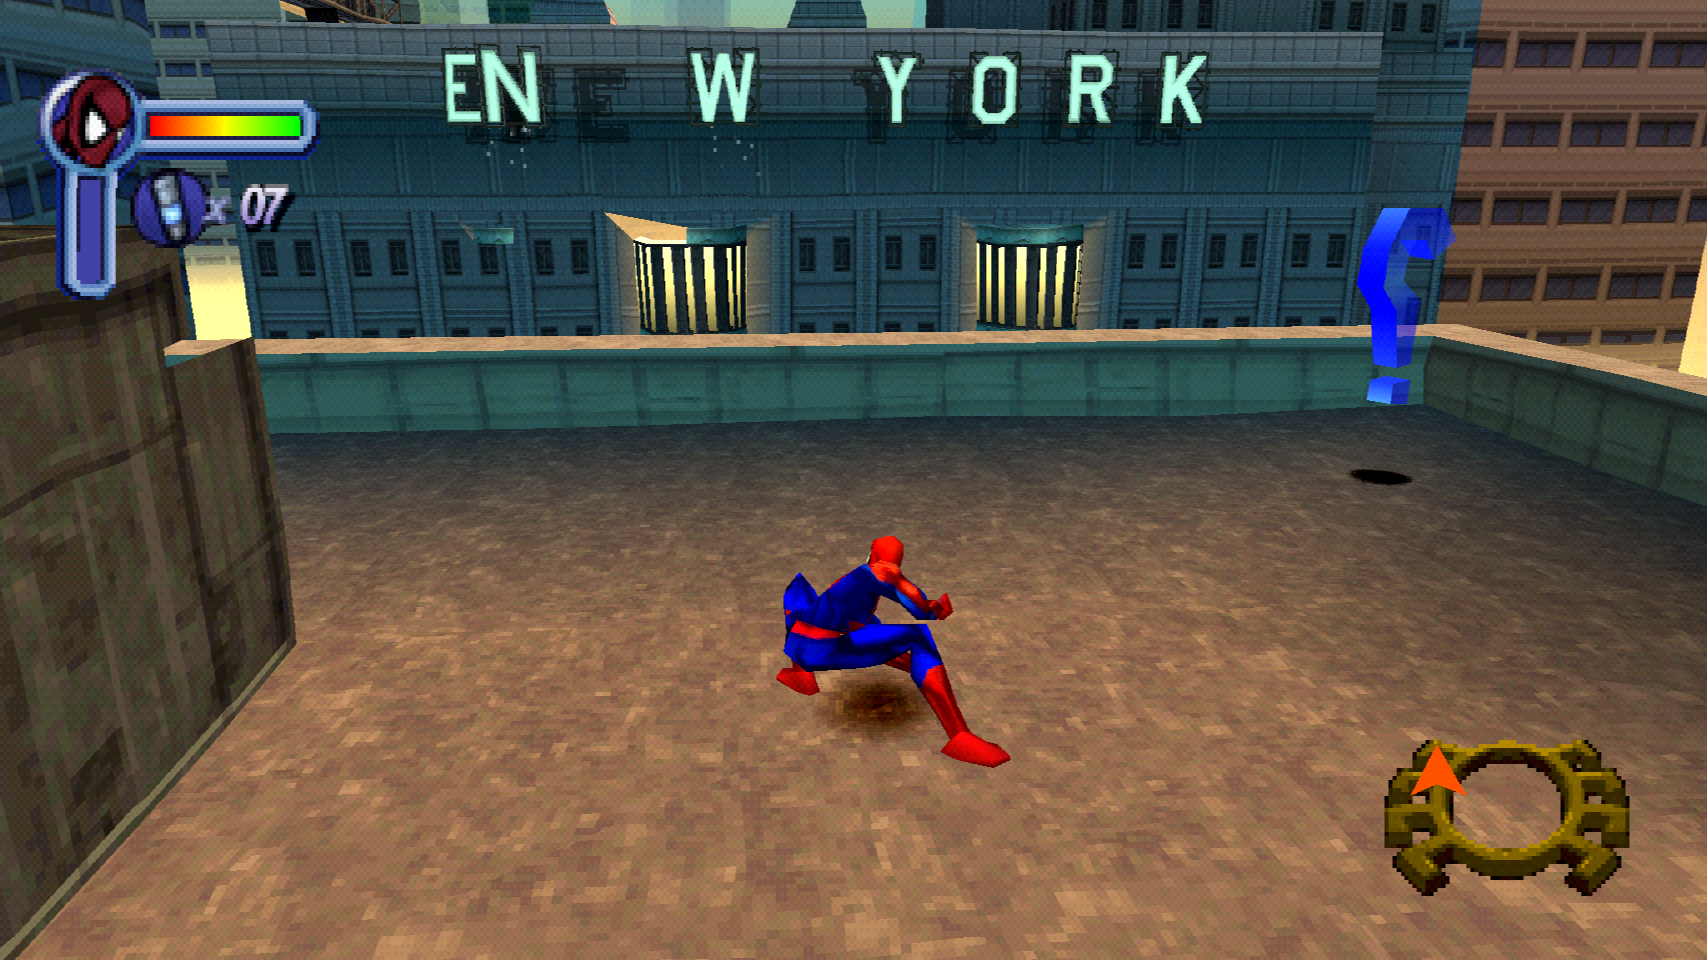
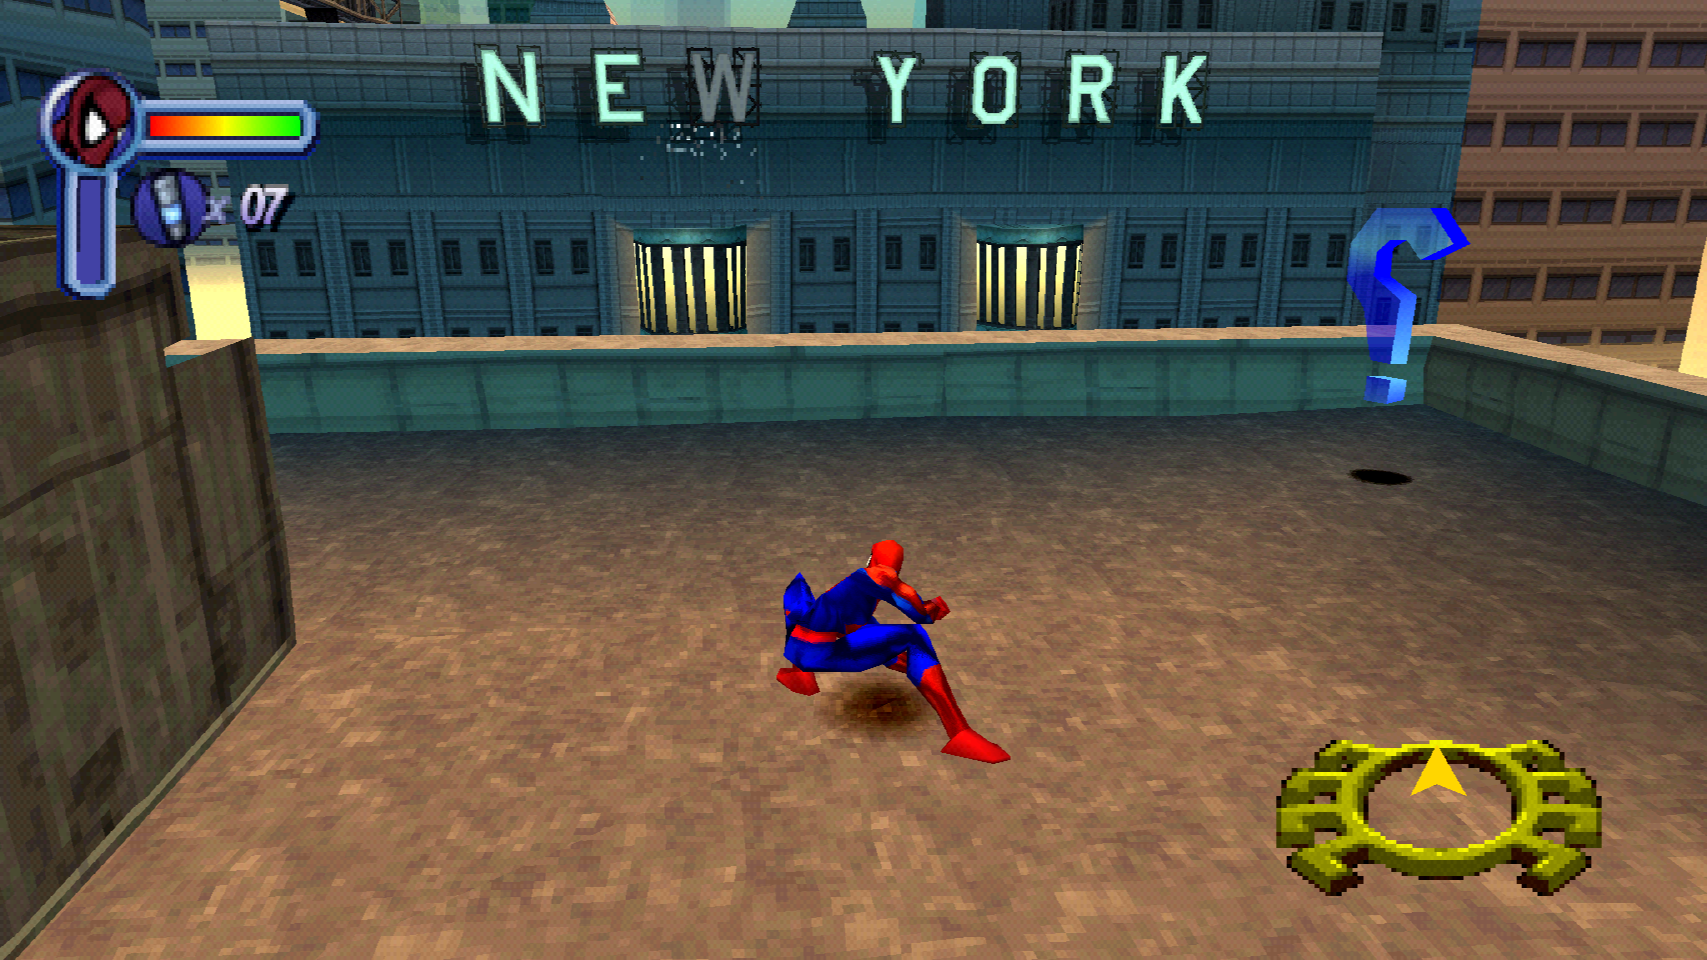
Widescreen HUD: anchor the health display, leave the compass whole
The compass ring is no longer anchored. Its needle rotates, so it never
forms an axis-aligned rectangle and cannot be identified the way the panels
are; moving the ring without it split the compass in two with the needle
stranded against the ring's edge. A whole compass sitting slightly inboard
is better than a broken one at the frame edge.

Only the top-left panels are anchored now, and they must hug the corner to
qualify. A corner region wide enough merely to contain them also contained
the building sign, whose letters are axis-aligned quads exactly like a HUD
panel, and squeezing those pulled letters out of the word.

Verified: health bar keeps its 150px inset from the left edge in both 4:3
and 16:9 at the same size; the sign, Spider-Man and the floor are
undistorted; the compass renders as one piece. Gameplay presents 16:9 in
l1a1, l5a3 and l7a1, and the menu still pillarboxes at 4:3.

diff --git a/spiderman/patches/Wide.cs b/spiderman/patches/Wide.cs
@@ -195,20 +195,28 @@ public static class Wide
     /// <summary>
     /// Is this a HUD panel? Shape alone is not enough: the ground is drawn as wide
     /// horizontal strips that project to axis-aligned rectangles just as a HUD panel
-    /// does, and squeezing those distorted the floor near the right edge.
+    /// does, and squeezing those distorted the floor near the right edge. Requiring an
+    /// element-sized rectangle inside the corner the HUD occupies separates the two
+    /// cleanly, without depending on draw order or on a flag the world also sets.
     ///
-    /// This game keeps its HUD in two corners -- health and web cartridges top left, the
-    /// compass bottom right -- so requiring an element-sized rectangle inside one of them
-    /// separates the two cleanly, and does it without depending on draw order or on any
-    /// flag the world might also set.
+    /// Only the top-left corner -- health and web cartridges -- is moved.
+    ///
+    /// The compass in the bottom right is deliberately left alone. Its needle rotates,
+    /// so it never forms an axis-aligned rectangle and cannot be recognised the same
+    /// way; anchoring the ring without it split the compass in two, with the needle
+    /// stranded against the ring's edge. Leaving the whole compass where the game puts
+    /// it keeps it a single coherent piece, which is worth more than having it against
+    /// the frame edge.
     /// </summary>
     static bool InHudCorner(int lo, int hi, int top, int bot, int w, int h)
     {
         if (hi - lo > w / 4 || bot - top > h / 3) return false;
 
-        bool topLeft = hi <= w * 2 / 5 && bot <= h * 2 / 5;
-        bool bottomRight = lo >= w * 3 / 5 && top >= h * 3 / 5;
-        return topLeft || bottomRight;
+        // Has to hug the corner, not merely fall inside it. The building sign sits high
+        // in the frame and its letters are axis-aligned quads like a HUD panel, so a
+        // corner region wide enough to hold the whole health display also caught them
+        // and pulled letters out of the word.
+        return lo <= w / 5 && hi <= w * 2 / 5 && bot <= h * 2 / 5;
     }
 
     /// <summary>The anchor of a remembered element, so a detail can inherit it.</summary>

diff --git a/spiderman/TO_DO.md b/spiderman/TO_DO.md
@@ -233,13 +233,19 @@ Also fixed on the way: boxes are kept in buffer-relative coordinates. The game d
 buffers, so alternate frames draw at y offset 0 and 256, and boxes recorded with the
 offset baked in could never match anything on the following frame.
 
-**Still wrong: the compass needle.** It rotates, so it is not axis-aligned and is not
-recognised as HUD; its ring moves out to the edge and it stays behind, sitting against
-the ring's left edge. Six attempts failed -- containment in one axis, then both, previous
-frame boxes, inheriting the ring's anchor, centre matching with slack, and a larger size
-limit (which caught world geometry and broke the NEW YORK sign). Each hypothesis about
-why was wrong, so the next step is to instrument what the needle actually is rather than
-guess again.
+**The compass is left where the game puts it, on purpose.** Its needle rotates, so it
+never forms an axis-aligned rectangle and cannot be recognised the way the panels are.
+Six attempts to move it with its ring all failed -- containment in one axis, then both,
+previous-frame boxes, inheriting the ring's anchor, centre matching with slack, and a
+larger size limit, which caught world geometry and pulled letters out of the NEW YORK
+sign. Anchoring the ring without the needle split the compass in two, with the needle
+stranded against the ring's edge, so the ring is no longer anchored either: a whole
+compass slightly inboard beats a broken one at the edge.
+
+Only the top-left panels -- health and web cartridges -- are anchored, and they have to
+*hug* the corner to qualify. A corner region merely wide enough to contain them also
+contained the building sign, whose letters are axis-aligned quads like a HUD panel, and
+squeezing those pulled the word apart.
 
 ## 1c. Open: driving the menus needs to be closed-loop
 
